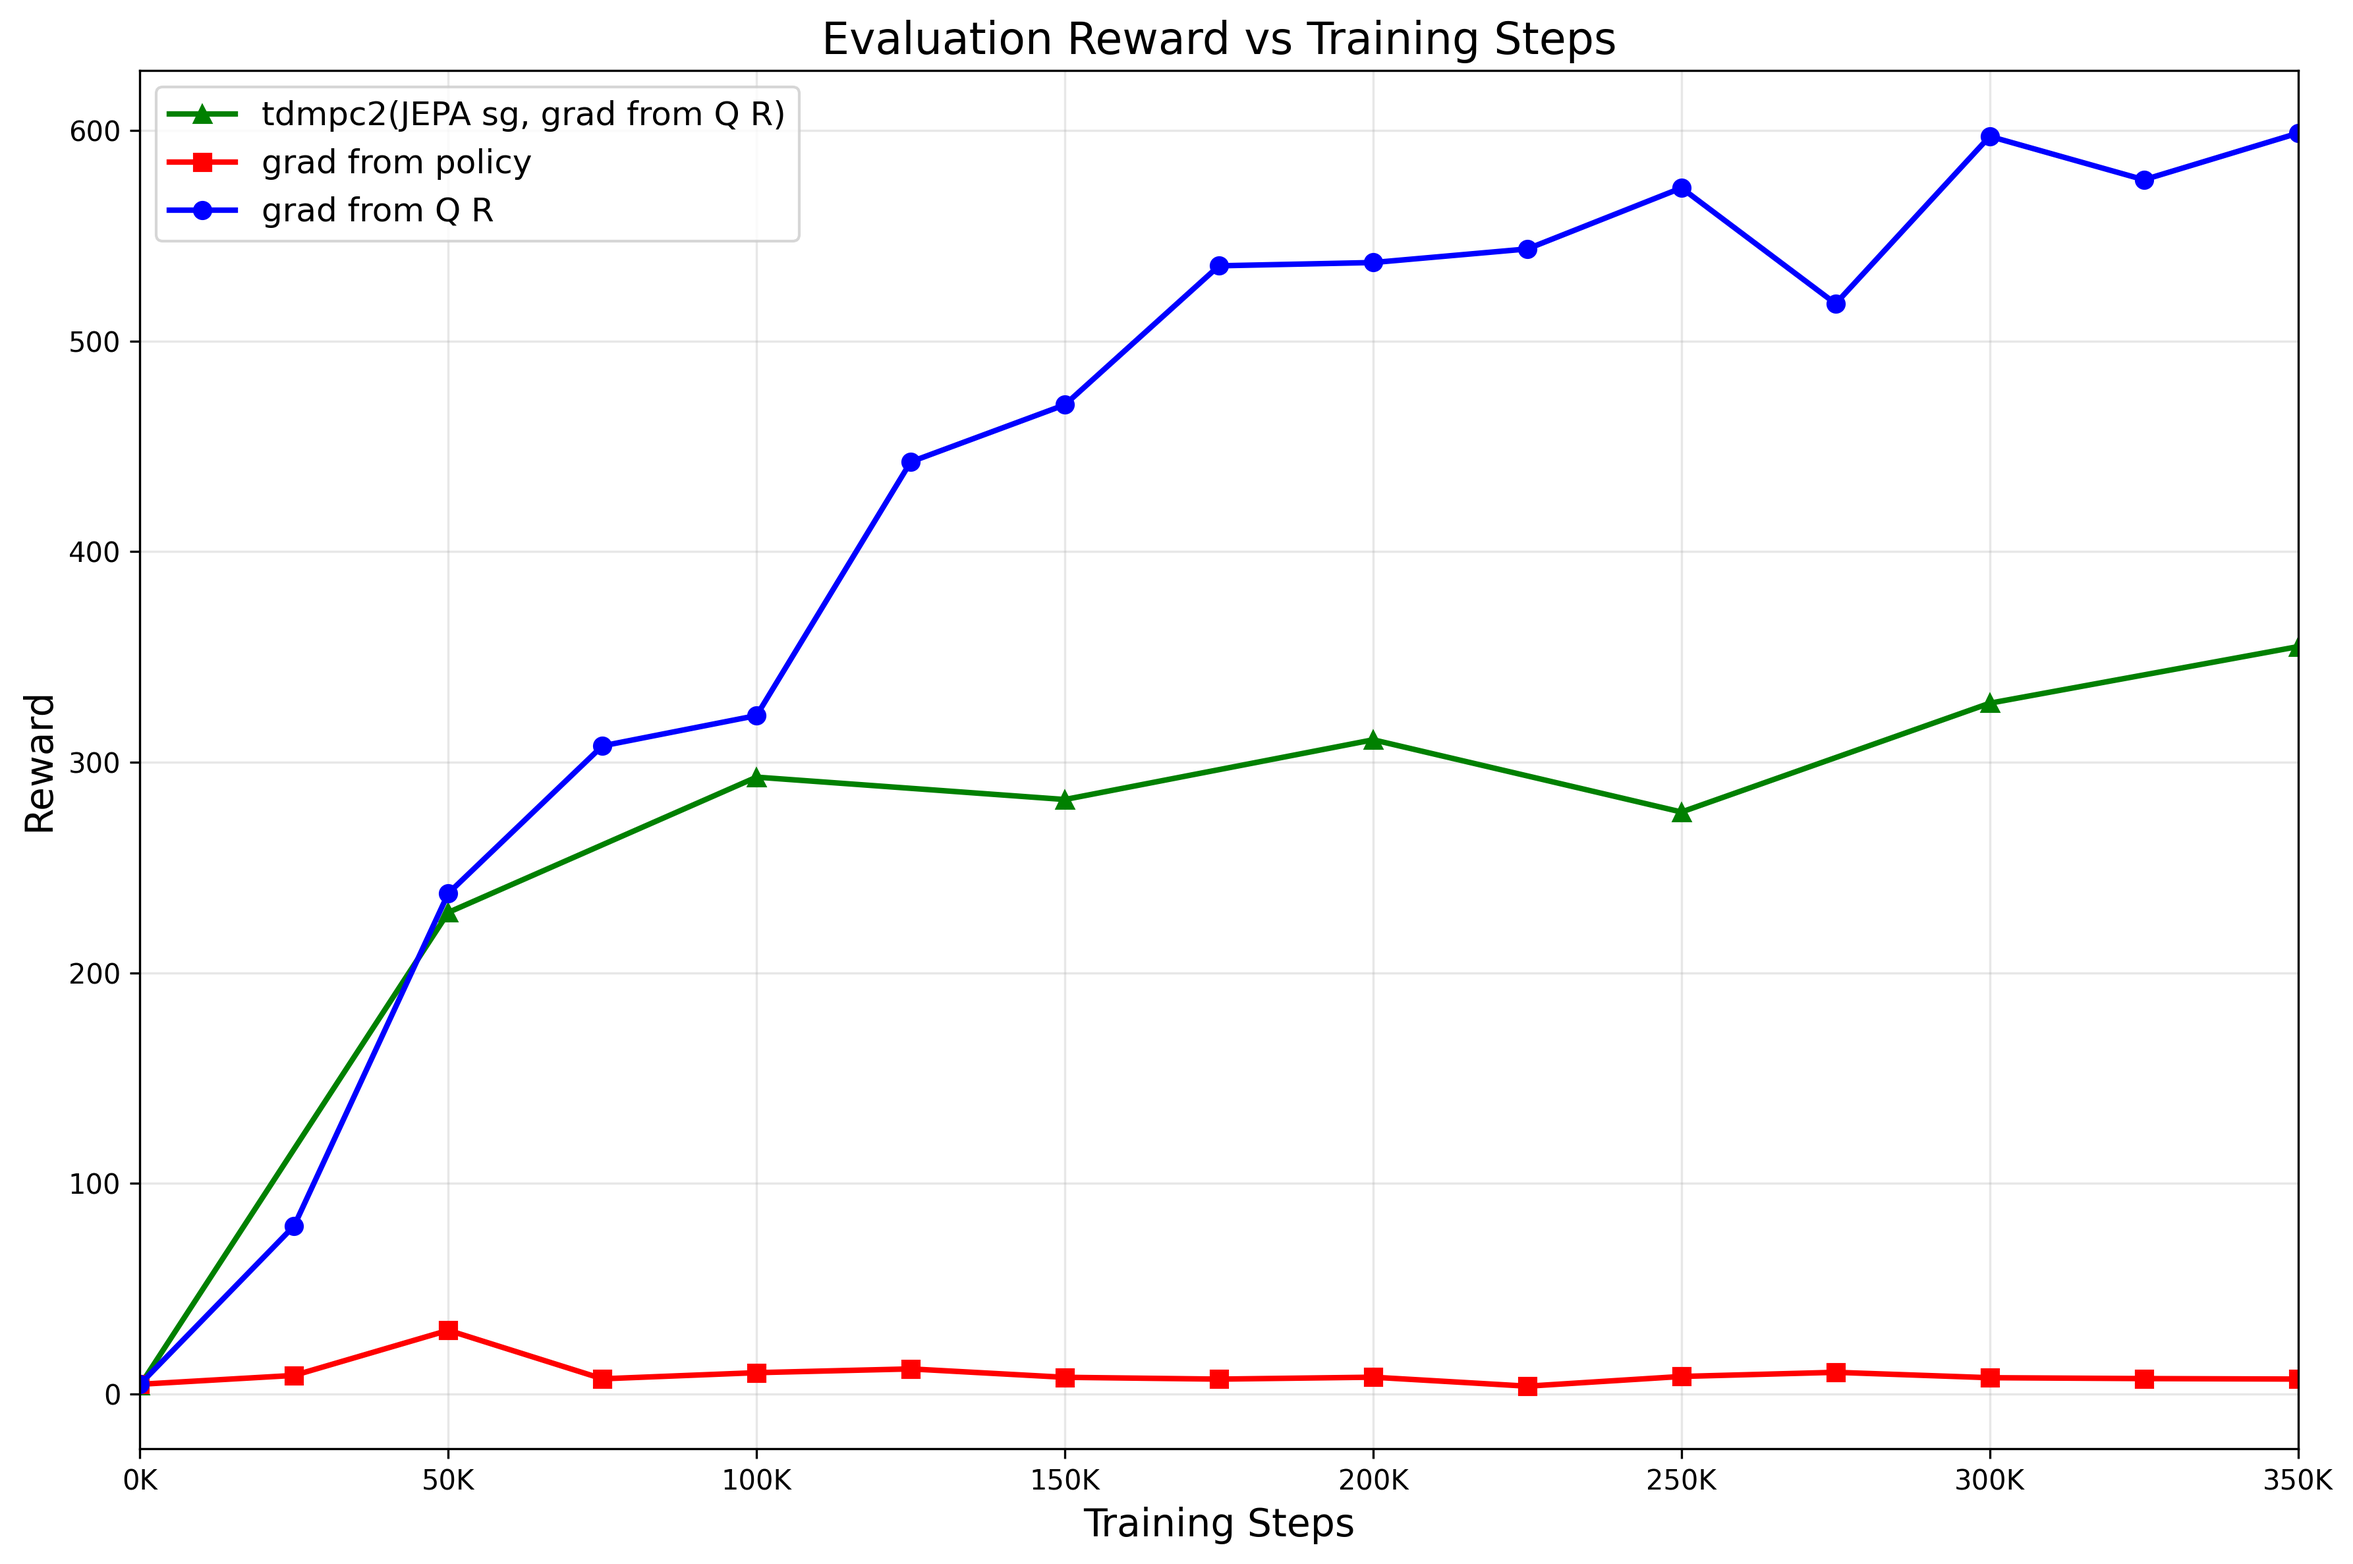
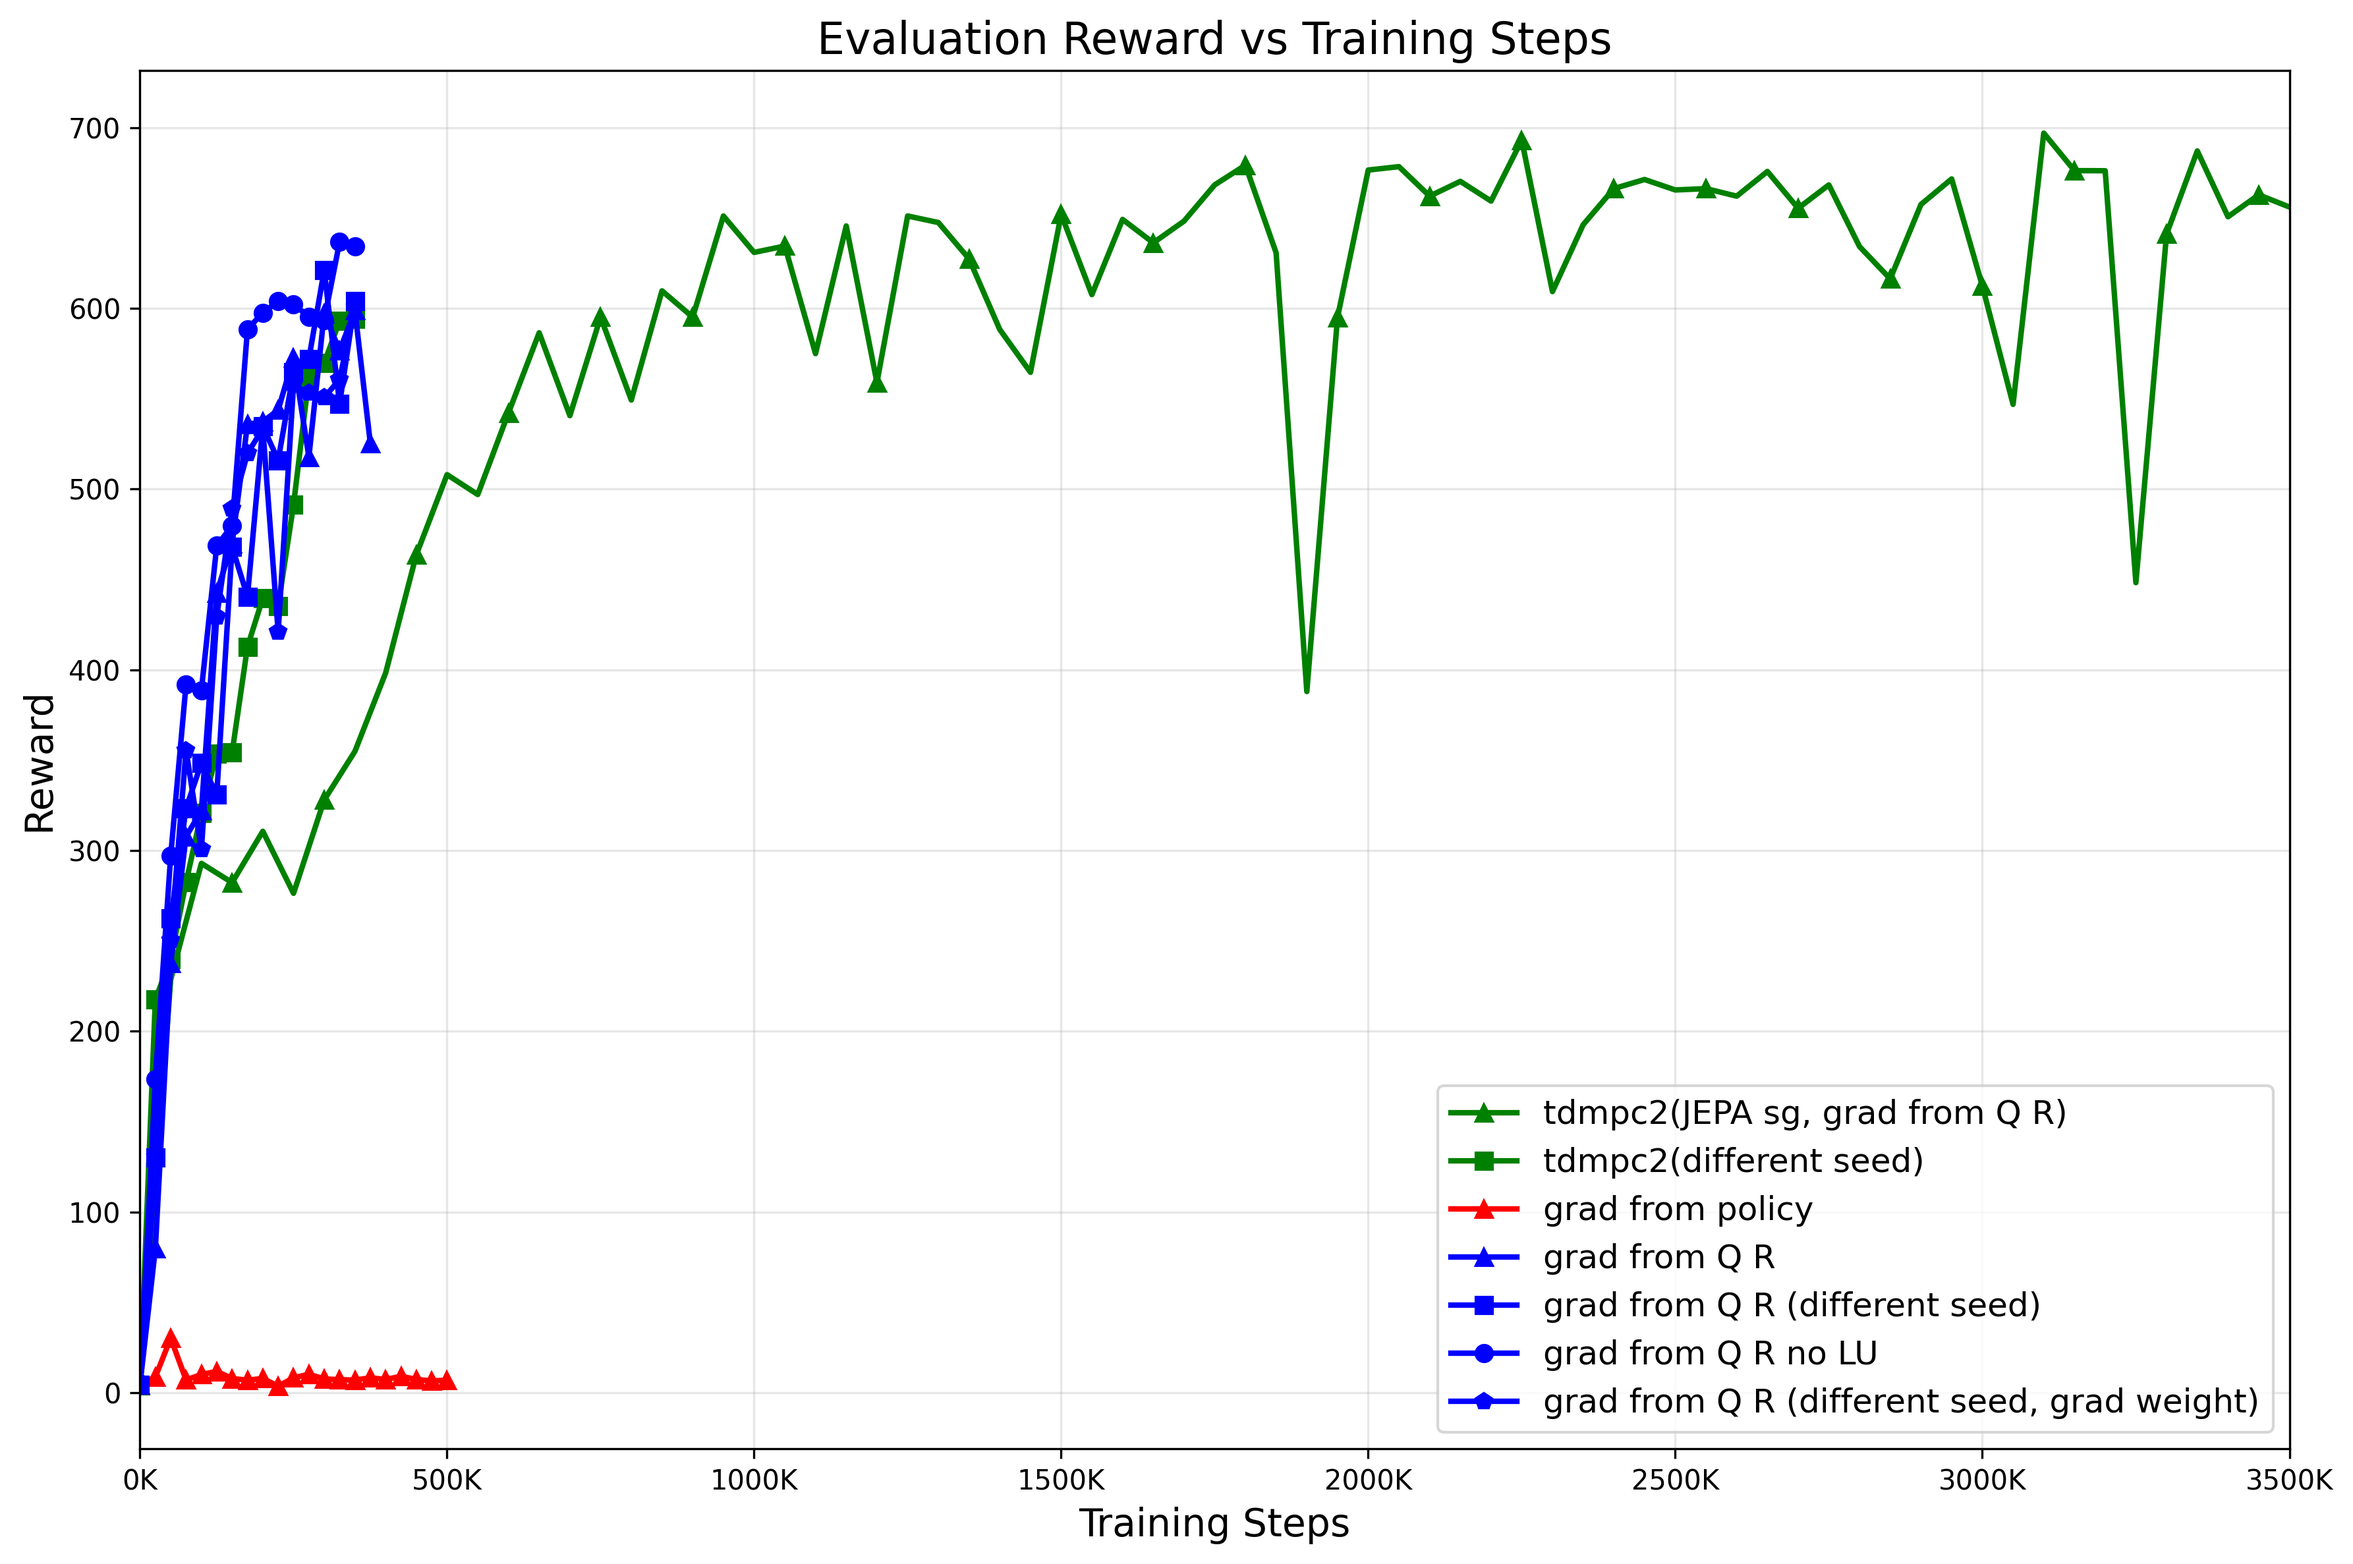
no check exist

diff --git a/tdmpc2/tdmpc2.py b/tdmpc2/tdmpc2.py
@@ -326,24 +326,24 @@ class TDMPC2(torch.nn.Module):
 		pi_loss = (-(self.cfg.entropy_coef * info_pi["scaled_entropy"] + qs_pi).mean(dim=(1,2)) * rho).mean()
 		
 		# check if the condition (Exist) holds
-		if (self.cfg.exist_check_freq and (step+1) % self.cfg.exist_check_freq == 0):
-            # pick one 'advantaged' state and ~32 'others' from the batch
-			batch_states = obs[0]                # shape (B, …)
-			if batch_states.size(0) > 1:         # need at least 2 states
-				print("Checking if the condition (Exist) holds...")
-				s_a = batch_states[0]
-				other_states = batch_states[1 : 33]   # up to 32 "others"
+		# if (self.cfg.exist_check_freq and (step+1) % self.cfg.exist_check_freq == 0):
+        #     # pick one 'advantaged' state and ~32 'others' from the batch
+		# 	batch_states = obs[0]                # shape (B, …)
+		# 	if batch_states.size(0) > 1:         # need at least 2 states
+		# 		print("Checking if the condition (Exist) holds...")
+		# 		s_a = batch_states[0]
+		# 		other_states = batch_states[1 : 33]   # up to 32 "others"
 
-				ok, sigma = exist_condition_holds(
-					encoder=self.model._encoder[self.cfg.obs],   # <-- pass the specific encoder for the observation type
-					s_a=s_a,
-					other_obs=other_states,
-					tol=self.cfg.exist_tol,
-					device=self.device
-				)
-				print(f"Exist condition holds: {ok}, sigma_min: {sigma:.3e}")
-				# encoding_space_s = encoding_space_size(self.model._encoder[self.cfg.obs], batch_states)
-				# print(f"Encoding space size: {encoding_space_s:.3e}")
+		# 		ok, sigma = exist_condition_holds(
+		# 			encoder=self.model._encoder[self.cfg.obs],   # <-- pass the specific encoder for the observation type
+		# 			s_a=s_a,
+		# 			other_obs=other_states,
+		# 			tol=self.cfg.exist_tol,
+		# 			device=self.device
+		# 		)
+		# 		print(f"Exist condition holds: {ok}, sigma_min: {sigma:.3e}")
+		# 		# encoding_space_s = encoding_space_size(self.model._encoder[self.cfg.obs], batch_states)
+		# 		# print(f"Encoding space size: {encoding_space_s:.3e}")
 
 		if self.cfg.ortho_reg:
 			# check the dtype of obs[0]
@@ -351,14 +351,14 @@ class TDMPC2(torch.nn.Module):
 			ortho_loss = orthogonality_regularization(
 				self.model._encoder[self.cfg.obs], obs[0], device=self.device, latent_dim=self.cfg.latent_dim
 			)
-			if self.cfg.exist_check_freq and (step+1) % self.cfg.exist_check_freq == 0:
+			if self.cfg.monitor_freq and (step+1) % self.cfg.monitor_freq == 0:
 				print(f"Orthogonality loss: {ortho_loss.item():.6e}")
 
 		if self.cfg.full_rank_reg:
 			fr_loss, abs_det = full_rank_regularization(
 				self.model._encoder[self.cfg.obs], obs[0], device=self.device, latent_dim=self.cfg.latent_dim
 			)
-			if self.cfg.exist_check_freq and (step+1) % self.cfg.exist_check_freq == 0:
+			if self.cfg.monitor_freq and (step+1) % self.cfg.monitor_freq == 0:
 				print(f"Full rank loss: {abs_det.item():.6e}")
 
 		# Combine all losses

diff --git a/plot_eval_rewards.py b/plot_eval_rewards.py
@@ -17,17 +17,41 @@ def plot_eval_rewards():
             'marker': '^'
         },
         {
+            'path': '/home/jyu197/tdmpc2/tdmpc2/logs/cheetah-run/2015/default_rgb_no_linear_seed2015/eval.csv',
+            'label': 'tdmpc2(different seed)',
+            'color': 'g',
+            'marker': 's'
+        },
+        {
             'path': './tdmpc2/logs/cheetah-run/1/grad_from_policy_011_full_rank_rgb_no_linear_no_simnorm_size_check/eval.csv',
             'label': 'grad from policy',
             'color': 'r',
-            'marker': 's'
+            'marker': '^'
         },
         {
             'path': './tdmpc2/logs/cheetah-run/1/grad_from_Q_R_011_full_rank_rgb_no_linear_no_simnorm_size_check/eval.csv',
             'label': 'grad from Q R',
             'color': 'b',
+            'marker': '^'
+        },
+        {
+            'path': '/home/jyu197/tdmpc2/tdmpc2/logs/cheetah-run/2015/grad_from_Q_R_011_full_rank_rgb_no_linear_no_simnorm_seed2015/eval.csv',
+            'label': 'grad from Q R (different seed)',
+            'color': 'b',
+            'marker': 's'
+        },
+        {
+            'path': '/home/jyu197/tdmpc2/tdmpc2/logs/cheetah-run/2015/grad_from_Q_R_011_rgb_no_linear_no_simnorm_seed2015/eval.csv',
+            'label': 'grad from Q R no LU',
+            'color': 'b',
             'marker': 'o'
-        }
+        },
+        {
+            'path': '/home/jyu197/tdmpc2/tdmpc2/logs/cheetah-run/2015/grad_from_Q_R_1_full_rank_rgb_no_linear_no_simnorm_seed2015/eval.csv',
+            'label': 'grad from Q R (different seed, grad weight)',
+            'color': 'b',
+            'marker': 'p'
+        },
     ]
     
     # Create the plot
@@ -41,7 +65,7 @@ def plot_eval_rewards():
                 df = pd.read_csv(exp['path'])
                 
                 # Filter for step <= 350000
-                df_filtered = df[df['step'] <= 350000]
+                df_filtered = df[df['step'] <= 3500000]
                 
                 # Plot the data
                 plt.plot(df_filtered['step'], df_filtered['episode_reward'], 
@@ -70,7 +94,7 @@ def plot_eval_rewards():
     plt.gca().xaxis.set_major_formatter(plt.FuncFormatter(lambda x, p: f'{int(x/1000)}K'))
     
     # Set x-axis limit
-    plt.xlim(0, 350000)
+    plt.xlim(0, 3500000)
     
     plt.tight_layout()
     

diff --git a/tdmpc2/simple_encoding_space_monitor.py b/tdmpc2/simple_encoding_space_monitor.py
@@ -32,7 +32,7 @@ class SimpleEncodingSpaceMonitor:
         
         # Monitoring configuration
         self.num_seed_obs = 64  # Number of diverse seed observations
-        self.monitor_freq = self.cfg.get('exist_check_freq', 2000)  # Monitor every N steps
+        self.monitor_freq = self.cfg.get('monitor_freq', 2000)  # Monitor every N steps
         self.seeds = list(range(42, 42 + self.num_seed_obs))  # Fixed seeds for reproducibility
         
         # Simple storage for monitoring data

diff --git a/tdmpc2/test_simple_encoding_monitor.py b/tdmpc2/test_simple_encoding_monitor.py
@@ -45,7 +45,7 @@ def test_simple_encoding_monitor():
             'task_dim': 96,
             'multitask': False,
             'exp_name': 'test_simple_encoding',
-            'exist_check_freq': 100,  # Check more frequently for testing
+            'monitor_freq': 100,  # Check more frequently for testing
             'num_enc_layers': 2,
             'enc_dim': 256,
             'num_channels': 32,
